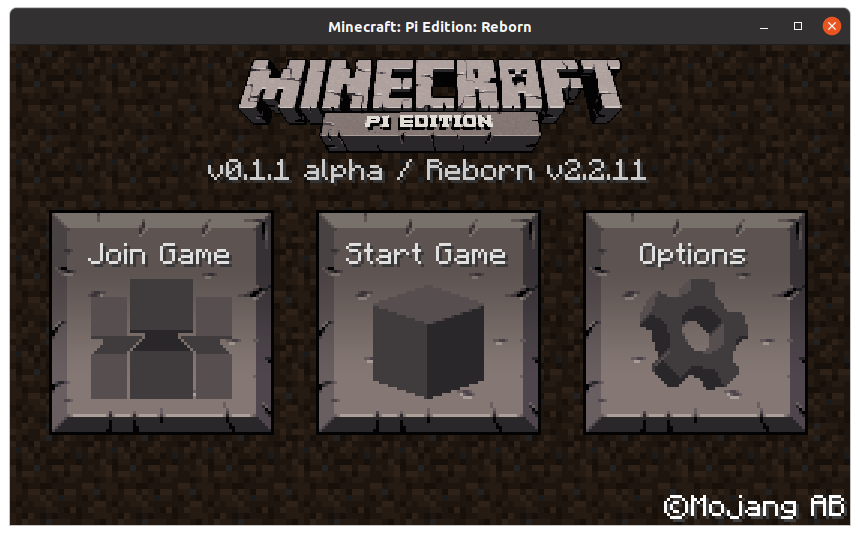
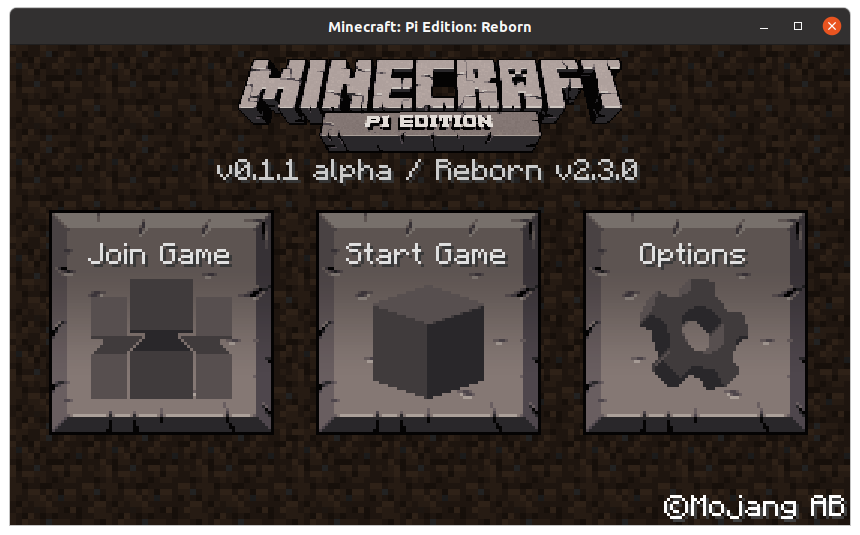
2.3.0

Changed region(s): [[0.2419, 0.2991, 0.7558, 0.3589]]

diff --git a/docs/CHANGELOG.md b/docs/CHANGELOG.md
@@ -1,7 +1,19 @@
 # Changelog
 
+**2.3.0**
+* Switch To AppImage For Packaging
+* Prevent OpenAL From Crashing When Out Of Memory
+* Vendor GLFW & Zenity
+  * Seamless Wayland Support
+* Add ``MCPI_DEBUG`` Environmental Variable
+* Add ``Disable Hosting LAN Worlds`` Feature Flag (Disabled By Default)
+* Add ``Fix Furnace Not Checking Item Auxiliary`` Feature Flag (Enabled By Default)
+* Add ``Disable Raw Mouse Motion (Not Recommended)`` Feature Flag (Disabled By Default) For Broken X11 Setups
+* Improve Build System
+* Improve Documentation
+
 **2.2.11**
-* Add "Close Current Screen On Death" Feature Flag (Enabled By Default) To Prevent Bugs
+* Add ``Close Current Screen On Death`` Feature Flag (Enabled By Default) To Prevent Bugs
 * Fix More Furnace UI Bugs When Using "Disable 'gui_blocks' Atlas"
 
 **2.2.10**
@@ -12,8 +24,8 @@
 * Store Files In `/usr/lib`
 
 **2.2.8**
-* Add "Hide Chat Messages" Optional Feature Flag
-* Add "Remove Creative Mode Restrictions" Optional Feature Flag
+* Add ``Hide Chat Messages`` Optional Feature Flag
+* Add ``Remove Creative Mode Restrictions`` Optional Feature Flag
 * Improve GLFW->SDL Mouse Motion Event Conversion
 * Performance Optimizations
 * Make Majority Of Server-Specific Logging Code Also Apply To The Client
@@ -51,7 +63,7 @@
 
 **2.2.0**
 * Sound Support
-* Split Off "Allow Joining Survival Servers" From Game-Mode Mod
+* Split Off ``Allow Joining Survival Servers`` From Game-Mode Mod
 * Separate Headless Code From Server Code
 * Fix Bug Where ``RakNetInstance`` Starts Pinging Potential Servers Before The "Join Game" Screen Is Opened
 * Clean-Up Code
